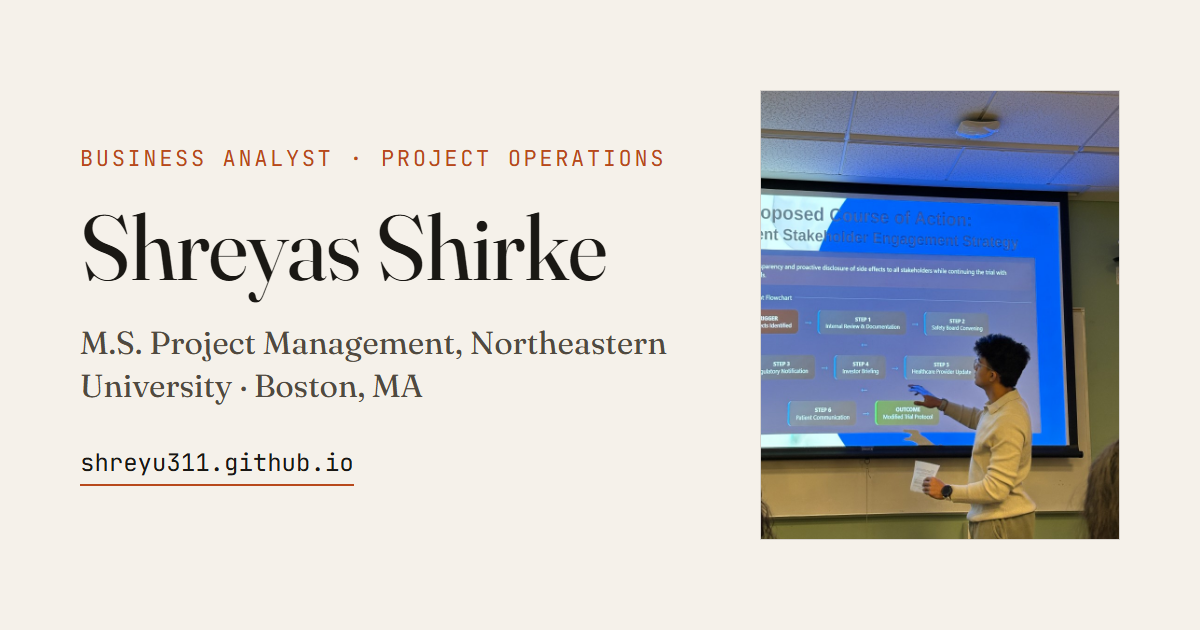
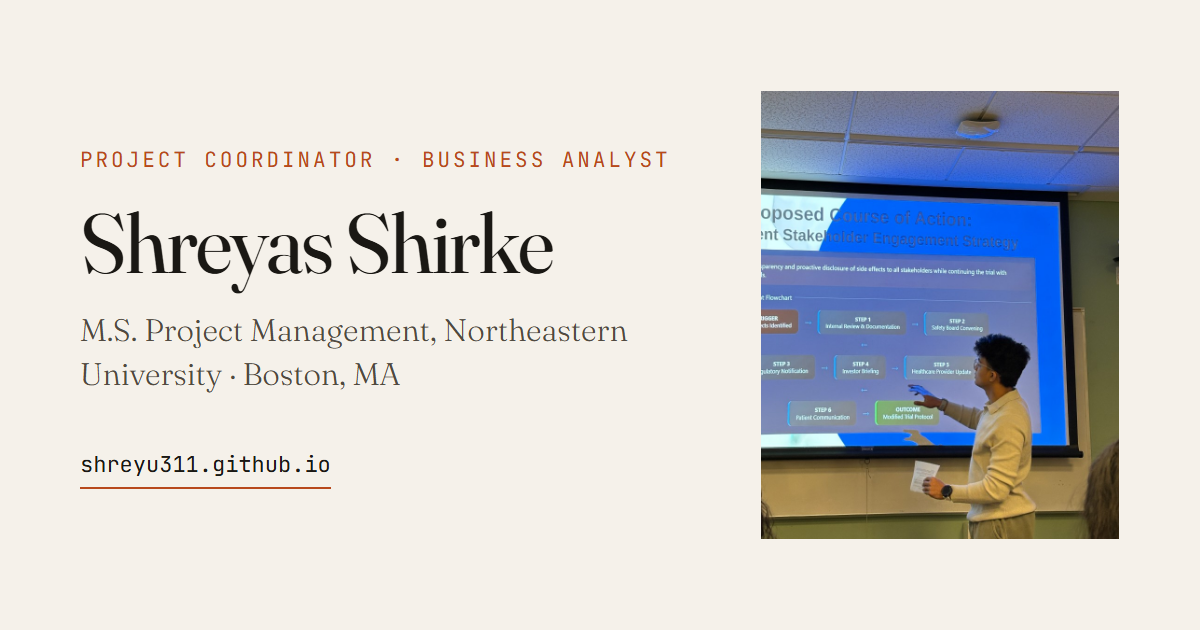
content: update résumé (Oct 2026) and sync site copy
Replace the résumé PDF with the October 2026 version and bump the
cache-busting query. Reposition the headline as Project Coordinator ·
Business Analyst across the title, meta/OG tags, JSON-LD, hero, About,
README, and the link-preview card. Sync Aosenuma.ai and Powerica bullets,
the capstone wording, and the design-system outcome with the new résumé
(drops the ~80% adoption claim).

diff --git a/index.html b/index.html
@@ -3,8 +3,8 @@
 <head>
 <meta charset="UTF-8">
 <meta name="viewport" content="width=device-width, initial-scale=1.0, viewport-fit=cover">
-<title>Shreyas Shirke — Business Analyst &amp; Project Operations</title>
-<meta name="description" content="Shreyas Shirke — Business Analyst and project operations professional in Boston. BRDs, stakeholder reporting, workflow design, gap analysis, and AI product operations. M.S. Project Management, Northeastern University.">
+<title>Shreyas Shirke — Project Coordinator &amp; Business Analyst</title>
+<meta name="description" content="Shreyas Shirke — Project coordinator and business analyst in Boston. BRDs, stakeholder reporting, workflow design, gap analysis, and AI product operations. M.S. Project Management, Northeastern University.">
 <meta name="author" content="Shreyas Shirke">
 <link rel="icon" href="favicon.svg" type="image/svg+xml">
 <link rel="canonical" href="https://shreyu311.github.io/">
@@ -15,7 +15,7 @@
   "@context": "https://schema.org",
   "@type": "Person",
   "name": "Shreyas Shirke",
-  "jobTitle": ["Business Analyst", "Project Operations"],
+  "jobTitle": ["Project Coordinator", "Business Analyst"],
   "email": "shirke.sh@northeastern.edu",
   "telephone": "+1-857-364-1539",
   "url": "https://shreyu311.github.io/",
@@ -56,16 +56,16 @@
 
 <meta property="og:type" content="website">
 <meta property="og:url" content="https://shreyu311.github.io/">
-<meta property="og:title" content="Shreyas Shirke — Business Analyst &amp; Project Operations">
-<meta property="og:description" content="Business Analyst and project operations professional in Boston. BRDs, stakeholder reporting, workflow design, gap analysis, and cross-functional AI product delivery.">
+<meta property="og:title" content="Shreyas Shirke — Project Coordinator &amp; Business Analyst">
+<meta property="og:description" content="Project coordinator and business analyst in Boston. BRDs, stakeholder reporting, workflow design, gap analysis, and cross-functional AI product delivery.">
 <meta property="og:image" content="https://shreyu311.github.io/images/og-card.png">
 <meta property="og:image:width" content="1200">
 <meta property="og:image:height" content="630">
-<meta property="og:image:alt" content="Shreyas Shirke, Business Analyst and Project Operations, M.S. Project Management at Northeastern University">
+<meta property="og:image:alt" content="Shreyas Shirke, Project Coordinator and Business Analyst, M.S. Project Management at Northeastern University">
 
 <meta name="twitter:card" content="summary_large_image">
-<meta name="twitter:title" content="Shreyas Shirke — Business Analyst &amp; Project Operations">
-<meta name="twitter:description" content="Business Analyst and project operations professional in Boston. BRDs, stakeholder reporting, workflow design, gap analysis, and cross-functional AI product delivery.">
+<meta name="twitter:title" content="Shreyas Shirke — Project Coordinator &amp; Business Analyst">
+<meta name="twitter:description" content="Project coordinator and business analyst in Boston. BRDs, stakeholder reporting, workflow design, gap analysis, and cross-functional AI product delivery.">
 <meta name="twitter:image" content="https://shreyu311.github.io/images/og-card.png">
 
 <!-- Fonts: Fraunces (editorial serif) + Inter Tight (clean sans for body) -->
@@ -1329,7 +1329,7 @@ button:focus-visible {
       <li><a href="#skills">Skills</a></li>
       <li><a href="#beyond">Activities</a></li>
       <li><a href="#contact">Contact</a></li>
-      <li><a href="resume/Shreyas_Shirke_Resume.pdf?v=20261011" target="_blank" rel="noopener">Resume ↗</a></li>
+      <li><a href="resume/Shreyas_Shirke_Resume.pdf?v=20261023" target="_blank" rel="noopener">Resume ↗</a></li>
     </ul>
   </nav>
 
@@ -1337,7 +1337,7 @@ button:focus-visible {
   <header class="hero">
     <div class="hero-layout">
       <div class="hero-copy">
-        <div class="meta">Business Analyst · Project Operations · Boston, MA</div>
+        <div class="meta">Project Coordinator · Business Analyst · Boston, MA</div>
         <h1>Shreyas Shirke</h1>
         <p class="subtitle">M.S. Project Management · Business Analysis</p>
         <p class="hero-contact">
@@ -1356,7 +1356,7 @@ button:focus-visible {
         </ul>
         <div class="actions">
           <a href="#work">View selected work →</a>
-          <a href="resume/Shreyas_Shirke_Resume.pdf?v=20261011" target="_blank" rel="noopener">Download resume ↗</a>
+          <a href="resume/Shreyas_Shirke_Resume.pdf?v=20261023" target="_blank" rel="noopener">Download resume ↗</a>
           <a href="mailto:shirke.sh@northeastern.edu">Get in touch</a>
           <a href="https://www.linkedin.com/in/shreyas-shirke-6085481b9/" target="_blank" rel="noopener">LinkedIn</a>
           <a href="https://github.com/shreyu311" target="_blank" rel="noopener">GitHub</a>
@@ -1394,7 +1394,7 @@ button:focus-visible {
           </div>
           <div class="block">
             <strong>Target roles</strong>
-            Business Analyst · Project Operations · Associate Project Manager
+            Project Coordinator · Business Analyst · Associate Project Manager
           </div>
           <div class="block">
             <strong>What I'm known for</strong>
@@ -1412,10 +1412,10 @@ button:focus-visible {
 
         <div class="body">
           <p>
-            I'm a business analyst and project operations professional. During my co-op at Aosenuma.ai, I worked in three loops: keeping a 150-entry compliance log from going stale, running UI/UX governance for live products, and automating the weekly Actuals vs Forecast portfolio report. Before grad school, I spent nearly two years as a Project Coordinator at Powerica Limited, coordinating concurrent industrial projects across plant sites.
+            I'm a project coordinator and business analyst. During my co-op at Aosenuma.ai, I worked in three loops: keeping a 150-entry compliance log from going stale, running UI/UX governance for live products, and automating the weekly Actuals vs Forecast portfolio report. Before grad school, I spent nearly two years as a Project Coordinator at Powerica Limited, coordinating generator installations with 10+ engineers and vendors against fixed client deadlines, budgets, and statutory approvals.
           </p>
           <p>
-            That work sits at the intersection of business analysis and project operations. I write and refine Business Requirements Documents, map gaps, and run stakeholder reporting for PM cadences. I care about one source of truth: when requirements, status, and metrics disagree, teams slow down.
+            That work sits at the intersection of project coordination and business analysis. I write and refine Business Requirements Documents, map gaps, and run stakeholder reporting for PM cadences. I care about one source of truth: when requirements, status, and metrics disagree, teams slow down.
           </p>
         </div>
       </div>
@@ -1466,7 +1466,7 @@ button:focus-visible {
         <h3>UI/UX Guidelines &amp; Design System (design.md)</h3>
         <div class="role">Requirements · Prototyping · Design Governance</div>
         <p class="summary">
-          Live AI products were shipping with inconsistent UI standards. I built a tokenized design system of reusable color, type, and spacing standards, with canonical tokens synced across Notion, GitHub, and production code as a single source of truth.
+          Live AI products were shipping with inconsistent UI standards. I built a tokenized design system of reusable color, type, and spacing standards, with canonical tokens synced across Notion, GitHub, and production code to maintain a shared project reference.
         </p>
         <div class="project-actions">
           <a class="project-link" href="https://github.com/shreyu311/UI-UX-Guidelines" target="_blank" rel="noopener">Personal project: UI/UX framework ↗</a>
@@ -1477,7 +1477,7 @@ button:focus-visible {
           <ul class="usage">
             <li><strong>Problem:</strong> Live products lacked a shared UI baseline; teams needed a repeatable way to validate standards before shipping.</li>
             <li><strong>My role:</strong> UI/UX requirements, 7 UI-only (front-end) prototypes for consistency testing and Large Language Model (LLM) context, a 168-point audit checklist, gap analysis, and stakeholder scorecards.</li>
-            <li><strong>Outcome:</strong> Live-product compliance rose from 85% to 92% with ~80% adoption of defined guidelines.</li>
+            <li><strong>Outcome:</strong> Live-product UI/UX compliance rose from an 85% baseline to 92%, reported to leadership through an executive summary.</li>
             <li><strong>Artifact:</strong> AthleteLoad, a personal interactive prototype (training load and recovery across wearables) built in Claude Design following my UI/UX framework. All athletes and data are fictional and simulated.</li>
           </ul>
         </div>
@@ -1541,9 +1541,9 @@ button:focus-visible {
         <div class="project-panel">
           <div class="usage-label">Case study</div>
           <ul class="usage">
-            <li><strong>Framework:</strong> Developing a value-realization framework that translates 10 case situations into benefit hypotheses, clear owners, and six-month post-implementation reviews.</li>
+            <li><strong>Framework:</strong> Developing a project-planning and value-realization framework that translates 10 case situations into benefit hypotheses, clear owners, and six-month post-implementation reviews.</li>
             <li><strong>Model:</strong> Building a lightweight benefits-management model linking project intake, RACI ownership, and portfolio feedback.</li>
-            <li><strong>Deliverable:</strong> A benefits-management approach designed to improve IT investment decisions without requiring new tools.</li>
+            <li><strong>Deliverable:</strong> A benefits-management approach designed to support coordinated IT investment decisions without introducing new tools.</li>
           </ul>
         </div>
         <div class="tags">
@@ -1571,10 +1571,10 @@ button:focus-visible {
           <h4>AI Project Manager (Co-op)</h4>
           <div class="company">Aosenuma.ai</div>
           <ul>
+            <li>Raised live-product UI/UX compliance from an 85% baseline to 92% by gathering UI/UX requirements, establishing a 168-point governance checklist, and running scorecard-based compliance audits with an executive summary for leadership.</li>
+            <li>Reduced stale entries ~30% in a 150-entry compliance log by publishing a daily compliance report and tracking updates.</li>
+            <li>Surfaced delivery risks, including scope drift and priority conflicts, through weekly project coordination across 5 live projects.</li>
             <li>Protected sprint commitments by tracking capacity and roll-offs across 18+ contributors and rebalancing at-risk work.</li>
-            <li>Reduced stale entries ~30% in a 150-entry compliance log by publishing a daily compliance report.</li>
-            <li>Surfaced delivery risks, including scope drift and priority conflicts, through a weekly portfolio cadence across 5 live projects.</li>
-            <li>Defined UI/UX requirements and a 168-point checklist used to audit live products, and standardized UI/UX via scorecard-based compliance audits and gap analysis, with an executive summary for leadership.</li>
           </ul>
         </div>
         <div class="where">Boston, MA</div>
@@ -1585,9 +1585,11 @@ button:focus-visible {
           <h4>Project Coordinator</h4>
           <div class="company">Powerica Limited</div>
           <ul>
-            <li>Cut scope conflicts 18% and stabilized delivery across industrial projects with stakeholder coordination checkpoints.</li>
+            <li>Facilitated weekly coordination checkpoints across 2–3 concurrent generator installations, cutting scope conflicts 18%.</li>
+            <li>Balanced internal stakeholder priorities against fixed client deadlines and statutory approval requirements, adjusting schedules and resources to keep installations within contract terms.</li>
+            <li>Tracked project costs against budget, reconciling vendor invoices and flagging budget variances to the project manager.</li>
+            <li>Planned installation schedules in Microsoft Project and Primavera, sequencing procurement, delivery, installation, and commissioning for cross-functional teams of 10+ engineers and vendors.</li>
             <li>Reduced idle workforce time 12% and lifted plant throughput by re-engineering vendor workflows to remove handoffs.</li>
-            <li>Delivered milestones within budget and on schedule across concurrent projects by coordinating cross-functional teams of 10+ engineers and vendors using Microsoft Project and Primavera.</li>
           </ul>
         </div>
         <div class="where">Pune, India</div>
@@ -1778,7 +1780,7 @@ button:focus-visible {
       <a href="https://www.linkedin.com/in/shreyas-shirke-6085481b9/" target="_blank" rel="noopener">LinkedIn ↗</a>
       <a href="https://github.com/shreyu311" target="_blank" rel="noopener">GitHub ↗</a>
       <a href="https://github.com/shreyu311/UI-UX-Guidelines" target="_blank" rel="noopener">UI/UX Guidelines ↗</a>
-      <a href="resume/Shreyas_Shirke_Resume.pdf?v=20261011" target="_blank" rel="noopener">Resume ↗</a>
+      <a href="resume/Shreyas_Shirke_Resume.pdf?v=20261023" target="_blank" rel="noopener">Resume ↗</a>
     </div>
   </section>
 

diff --git a/projects/athleteload/index.html b/projects/athleteload/index.html
@@ -440,7 +440,7 @@ footer p{max-width:90ch}
       <p class="wordmark"><span class="wm-text">Shrey</span><span class="wm-dot" aria-hidden="true"></span></p>
       <div>
         <p><strong>A product prototype by Shreyas Shirke.</strong></p>
-        <p class="muted">Project manager and business analyst, Boston.</p>
+        <p class="muted">Project coordinator and business analyst, Boston.</p>
         <p><a href="https://shreyu311.github.io">shreyu311.github.io</a></p>
       </div>
     </div>

diff --git a/README.md b/README.md
@@ -1,9 +1,9 @@
 # Shreyas Shirke — Portfolio
 
-Personal portfolio for **Shreyas Shirke**, Business Analyst · Project Operations · M.S. Project Management at Northeastern University (Dec 2026), Boston, MA.
+Personal portfolio for **Shreyas Shirke**, Project Coordinator · Business Analyst · M.S. Project Management at Northeastern University (Dec 2026), Boston, MA.
 
 **Live site:** https://shreyu311.github.io
-**Résumé:** [Shreyas_Shirke_Resume.pdf](./resume/Shreyas_Shirke_Resume.pdf?v=20261011)
+**Résumé:** [Shreyas_Shirke_Resume.pdf](./resume/Shreyas_Shirke_Resume.pdf?v=20261023)
 
 ## What's on the site
 
